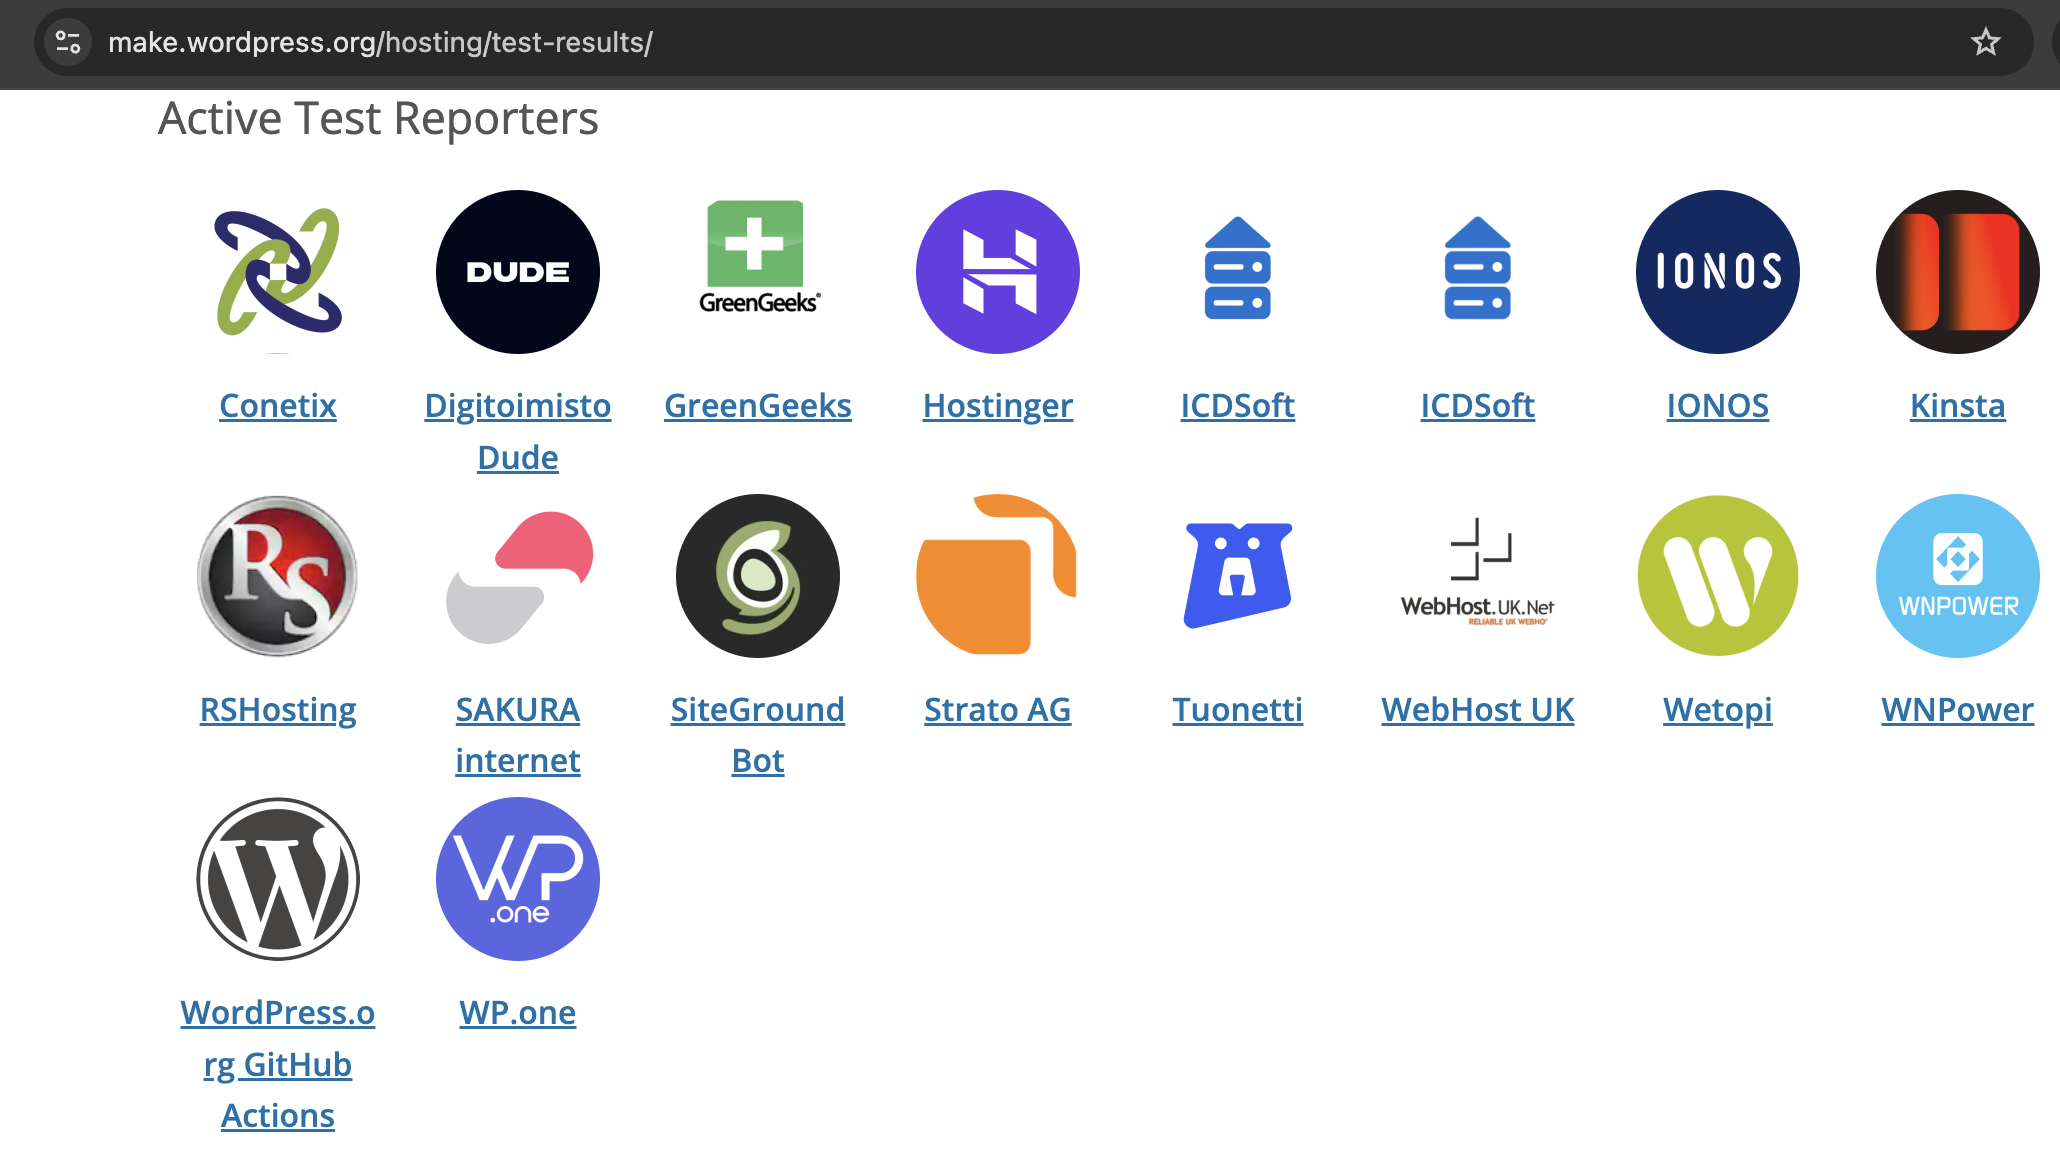
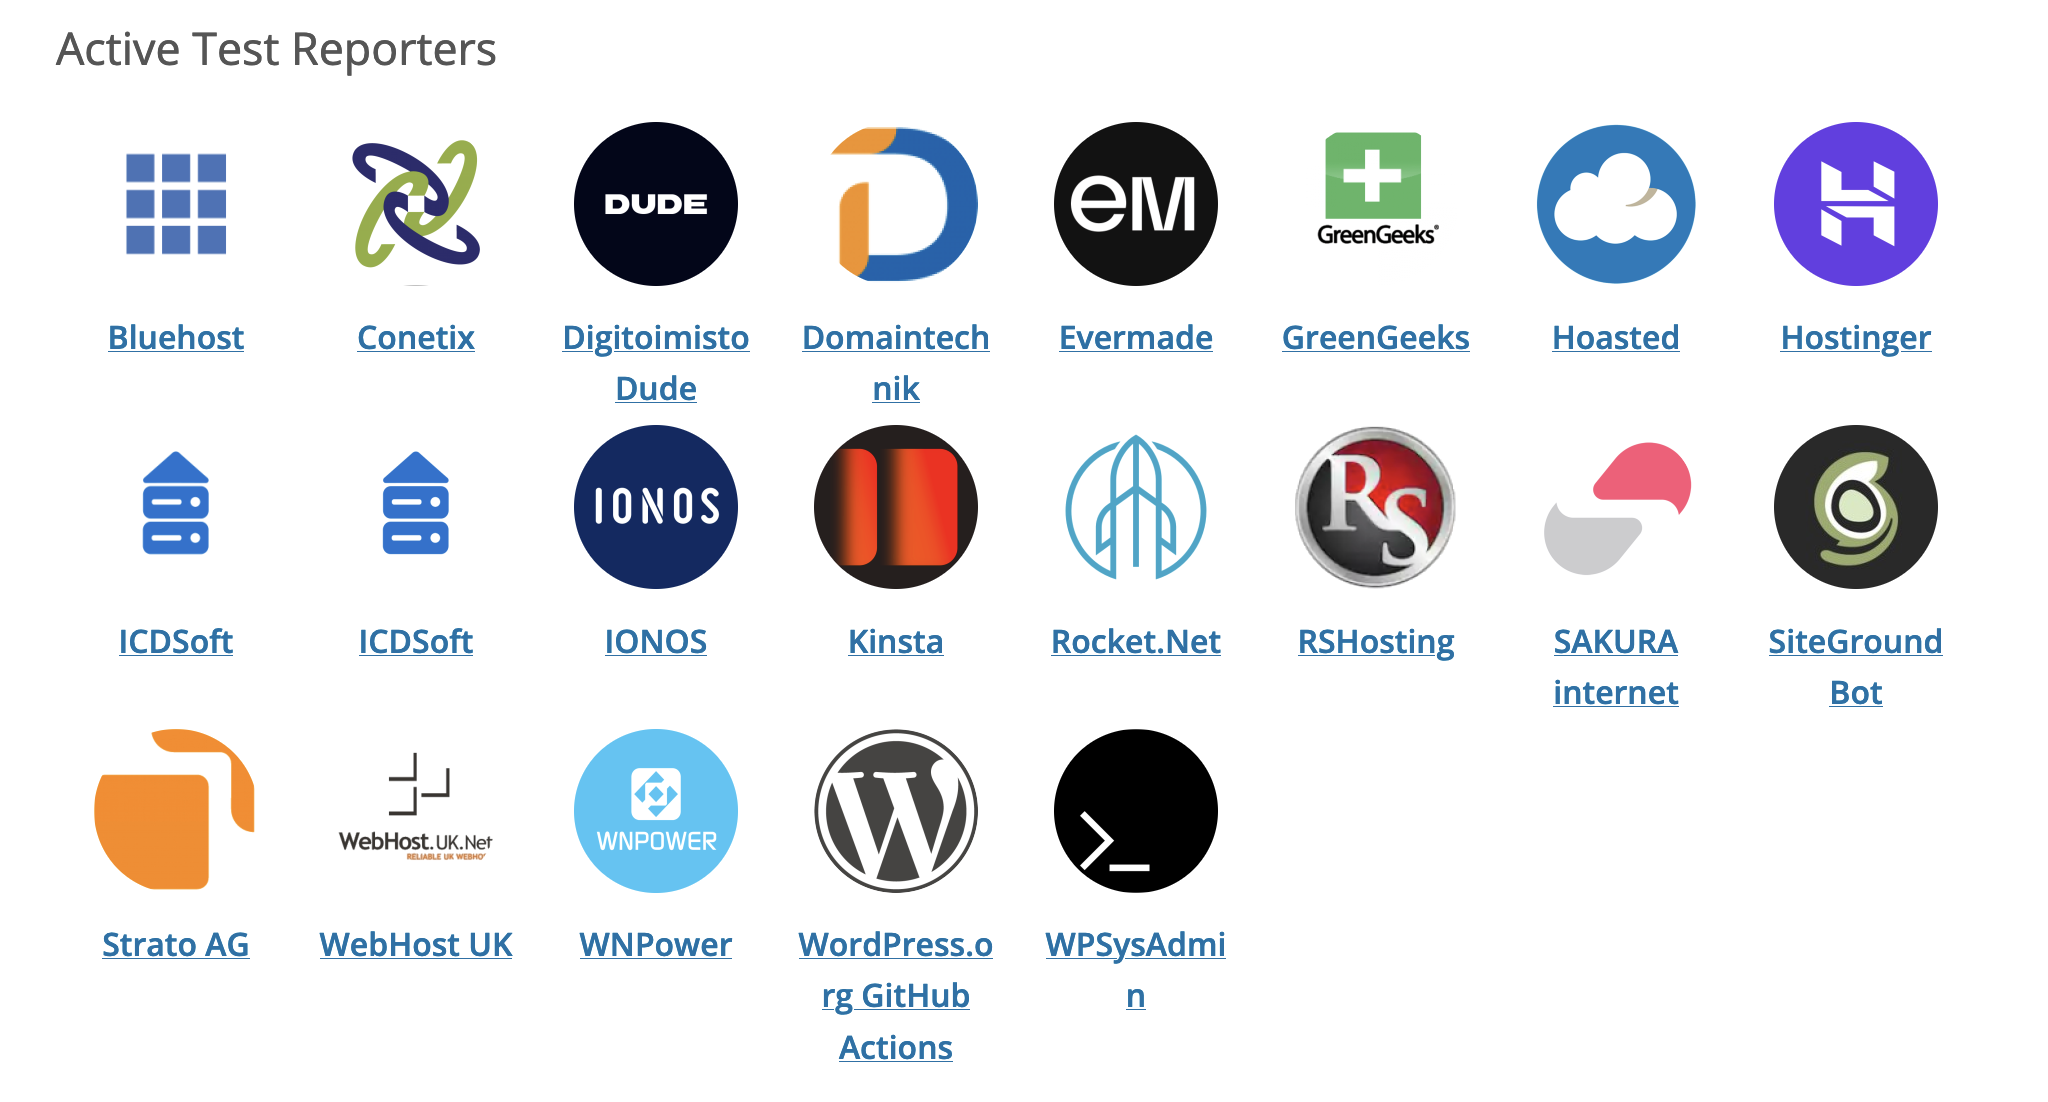
Adjust hosting screenshots.

diff --git a/sections/9-hosting-tests.tsx b/sections/9-hosting-tests.tsx
@@ -1,7 +1,8 @@
-import { Slide, FlexBox, Heading, Notes } from 'spectacle';
+import {Slide, FlexBox, Heading, Notes, Image} from 'spectacle';
 
 // @ts-ignore
 import imgUrl from '../images/hosting-screenshot.png';
+import multiImg from '../images/hosting-screenshot-multi.png';
 
 const Hostingtests = () => (
 	<>
@@ -9,7 +10,7 @@ const Hostingtests = () => (
 			<FlexBox height="100%">
 				<Heading>The Reliability of Updates, depends on you!</Heading>
 				<Notes>
-					This is especially true for Hosting providores. Ask your
+					This is especially true for Hosting providers. Ask your
 					host how they are getting ready for new versions of
 					WordPress and if the answer does not involve them testing,
 					go find a new host.
@@ -27,8 +28,10 @@ const Hostingtests = () => (
 			</Notes>
 		</Slide>
 
-		<Slide backgroundImage={ 'url(' + imgUrl + ')' }>
-			<FlexBox height="100%"></FlexBox>
+		<Slide>
+			<FlexBox height="100%">
+				<Image src={ multiImg } width={ '65%' }></Image>
+			</FlexBox>
 			<Notes>
 				Now supports multiple reports per commit to allow for multiple
 				environment types, multiple PHP or database versions, operating

diff --git a/sections/5-whatbroke.tsx b/sections/5-whatbroke.tsx
@@ -83,7 +83,9 @@ const Whatbroke = () => (
 			</FlexBox>
 			<Notes>
 				This is needed since while cURL is everywhere, it is not
-				actually everywhere. WordPress has a philosophy to work
+				actually everywhere, and may not be properly configured.
+				WordPress has a philosophy to work. cURL has an interesting API,
+				to say the least.
 			</Notes>
 		</Slide>
 		<Slide>
